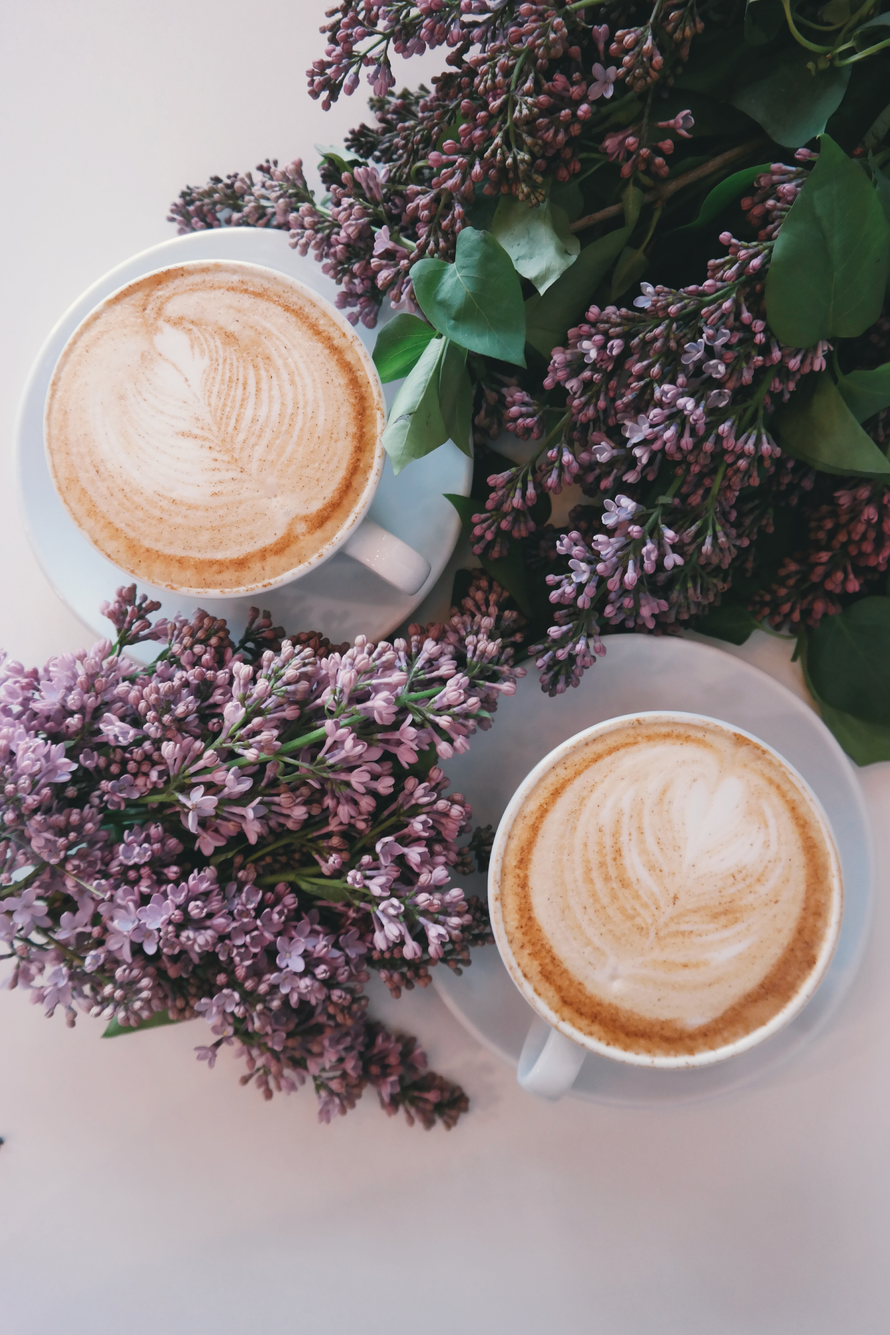
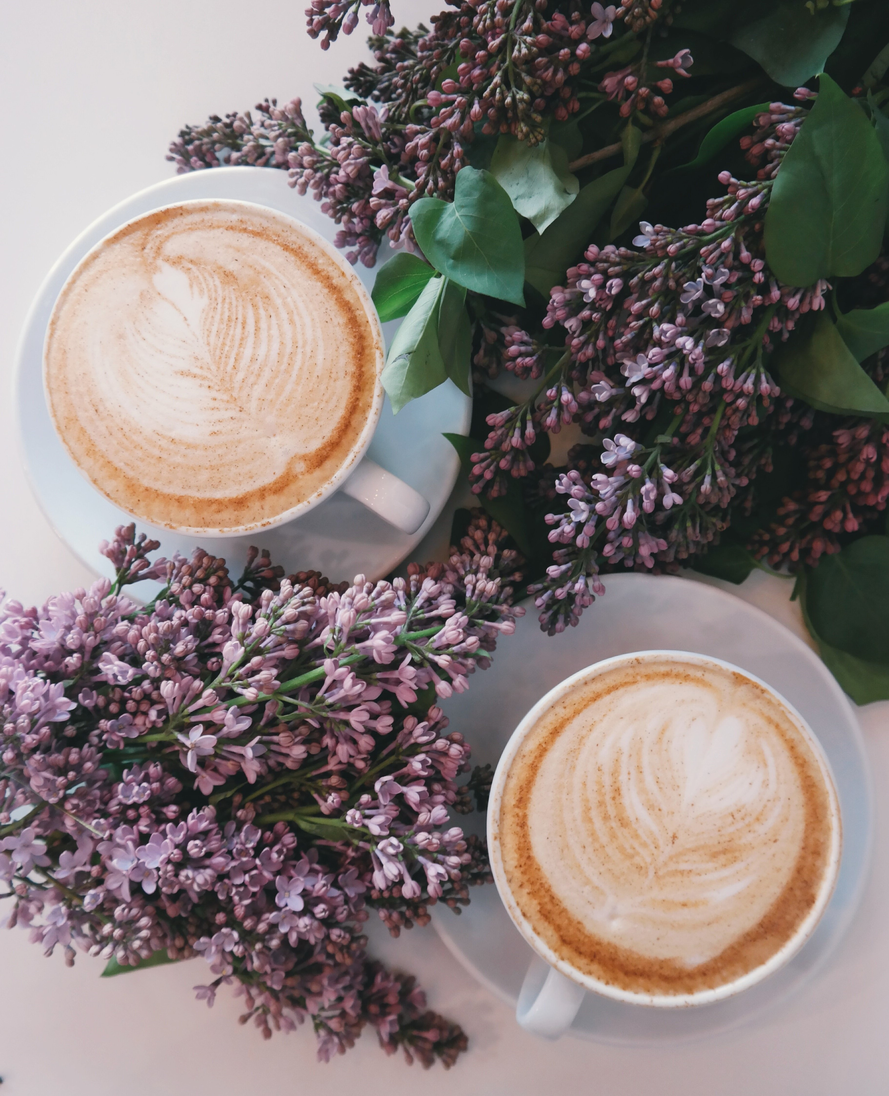
Updated bite card images   - made sure the 3:2 ratio was preserved no matter the picture aspect ratio   - cleaned up stylesheet by combining selectors commonly used at once   - added a bite to the database for testing

diff --git a/src/styles/less/app.less b/src/styles/less/app.less
@@ -83,12 +83,17 @@ CUSTOM HEADER STYLING
 
   .secondary {
     h1 {
-      font-size : 2.5em
+      font-size : 2.5em;
+
+      p.bite-name {
+        /* confine the bite names to no more than 2 lines long */
+        .max-lines-2;
+      }
     }
   }
 
   .divider.divider-margin {
-    /* give divider padding */
+    /* give divider space */
     margin : 1.5em 0 3em;
   }
 }
@@ -104,6 +109,7 @@ CUSTOM CARD STYLING
 }
 
 .card-footer {
+  /* allow the cards to have a footer at the very bottom */
   bottom : 0;
   left   : 50%;
   right  : 50%;
@@ -120,9 +126,29 @@ BITES PAGE STYLING
 
   .content {
     .bite-content {
-      img {
-        //min-height: 300px;
-        //max-height: 300px;
+      .relative.bite-image {
+        /* make all the images have an aspect ratio of exactly 3:2, so their height in the cards is the same */
+
+        img {
+          .absolute;
+          left       : 0;
+          top        : 0;
+          width      : 100%;
+          height     : 100%;
+          object-fit : cover;
+        }
+      }
+
+      div.relative.bite-image:after {
+        display        : block;
+        content        : '';
+        /* 3:2 aspect ratio */
+        padding-bottom : 150%;
+      }
+
+      h2.bite-name {
+        /* capitalize the summary of the bite*/
+        .capitalize;
       }
     }
   }

diff --git a/src/pages/bites/BiteCardSetup.jsx b/src/pages/bites/BiteCardSetup.jsx
@@ -10,7 +10,7 @@ import Reviews from './reviews/Reviews';
  */
 export const BiteHeader = ({ name, duration, price }) => (
   <CustomHeader
-    mainContent={name}
+    mainContent={<p className='bite-name'>{name}</p>}
     subHeader={<p>{`${duration} minutes | $${price}`}</p>}
     secondary
   />
@@ -22,8 +22,11 @@ export const BiteHeader = ({ name, duration, price }) => (
  */
 export const BiteContent = ({ photo: { alt, path: imgSrc }, summary }) => (
   <div className='bite-content'>
-    <Image src={`/img/bites/${imgSrc}`} alt={alt} rounded />
-    <h2 className='brand-script' style={{ color: '@green' }}>
+    <div className='relative bite-image'>
+      <Image src={`/img/bites/${imgSrc}`} alt={alt} rounded />
+    </div>
+    {/* use semantic green site variable instead of the default 👇 html green */}
+    <h2 className='brand-script bite-name' style={{ color: '@green' }}>
       {summary}
     </h2>
   </div>

diff --git a/src/pages/bites/singular-bite/stats/BiteStats.jsx b/src/pages/bites/singular-bite/stats/BiteStats.jsx
@@ -15,7 +15,7 @@ export default function BiteStats({ bite }) {
     <Segment>
       <Grid columns={2} divided>
         <Grid.Column>
-          <div className='flex size-of-parent center-items'>
+          <div className='size-of-parent center-items'>
             <Statistic.Group horizontal color='purple' size='small'>
               <Statistic>
                 <Statistic.Value>{price}</Statistic.Value>
@@ -33,7 +33,7 @@ export default function BiteStats({ bite }) {
 
         <Grid.Column className='size-of-parent'>
           <div
-            className='right-align description flex center-items'
+            className='right-align description center-items'
             style={{ float: 'right' }}
           >
             <p>{bite.description}</p>

diff --git a/src/styles/less/quick-customization.less b/src/styles/less/quick-customization.less
@@ -3,15 +3,21 @@ this file contains classname to quickly style elements in common ways
 ------------------------------------------------------------------------------------------------------------------------
  */
 
+.flex {
+  display : flex;
+}
+
 .center-align {
   text-align : center;
 }
 
 .center-items {
+  .flex;
   align-items : center;
 }
 
 .justify-center {
+  .flex;
   justify-content: center;
 }
 
@@ -33,10 +39,6 @@ this file contains classname to quickly style elements in common ways
 
 .absolute {
   position : absolute;
-}
-
-.flex {
-  display : flex;
 }
 
 .float-right {

diff --git a/src/styles/less/mixins.less b/src/styles/less/mixins.less
@@ -5,3 +5,12 @@
     src: url('@{font-path}/satisfy-regular-webfont.woff2') format('woff2'), url('@{font-path}/satisfy-regular-webfont.woff') format('woff');
   }
 }
+
+.max-lines-2 {
+  /* force text to not overflow 2 lines, but rather just do an ellipses */
+  overflow           : hidden;
+  text-overflow      : ellipsis;
+  display            : -webkit-box;
+  -webkit-line-clamp : 2; /* number of lines to show */
+  -webkit-box-orient : vertical;
+}

diff --git a/src/pages/page-elements/card/CustomCard.jsx b/src/pages/page-elements/card/CustomCard.jsx
@@ -38,7 +38,7 @@ function CustomCard({ Header, Content, Description, Footer, options }) {
       </Card.Description>
 
       <br />
-      <footer className='flex justify-center absolute card-footer'>
+      <footer className='justify-center absolute card-footer'>
         <Footer />
       </footer>
     </Card>

diff --git a/src/react-app-env.d.ts b/src/react-app-env.d.ts
@@ -1,0 +1,1 @@
+/// <reference types="react-scripts" />

diff --git a/src/utils/todo.md b/src/utils/todo.md
@@ -1,0 +1,16 @@
+###FRONT END
+new branches:
+  - make review stars display properly
+  - make login nicer, add UserFront
+  - move all styling to app.less
+  - figure out how to use the logo svg as a direct react element
+  - add more detailed reviews endpoint, include a link in the bite stats component
+  - add prop-types library
+  - add title to introduce the bites page
+  - flesh out the home page
+  - add not found component
+  - add the buttons and whatever is right positioned in the navbar into NAVBAR_ROUTES
+  - make sure bite description on singular bite page has `class=center-items`
+
+###BACK END
+  - continue class...
